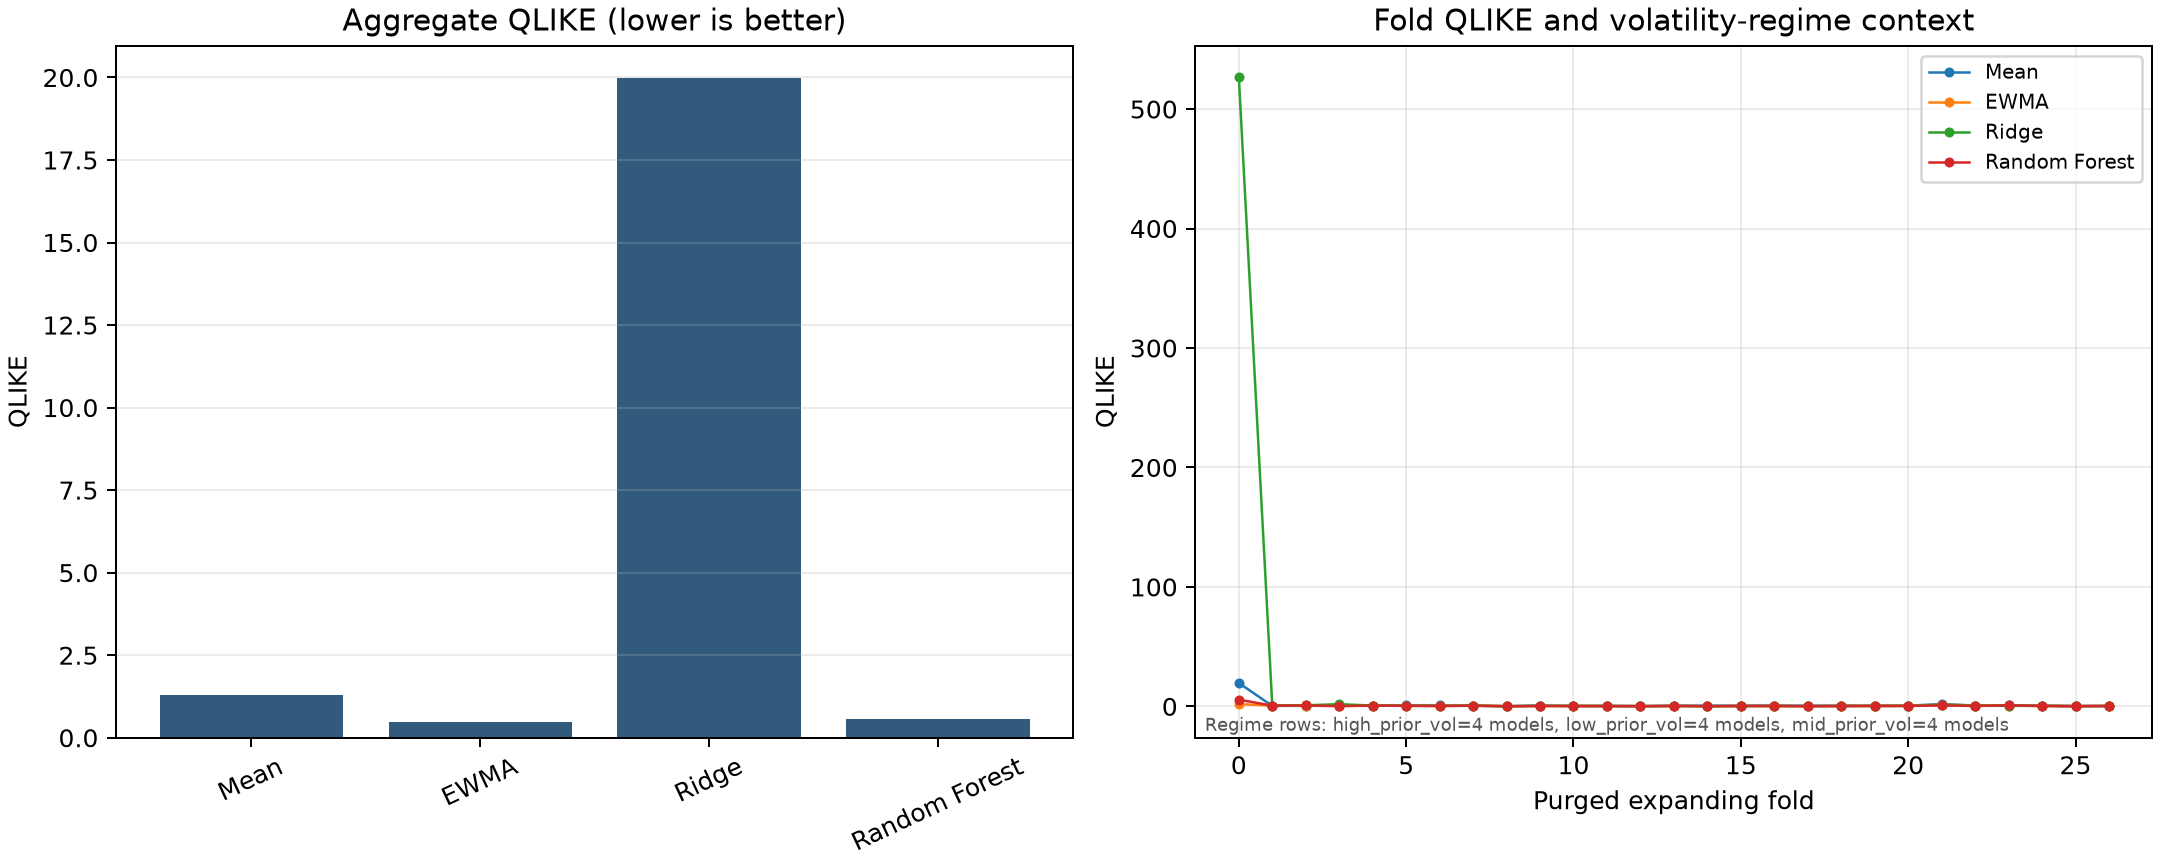
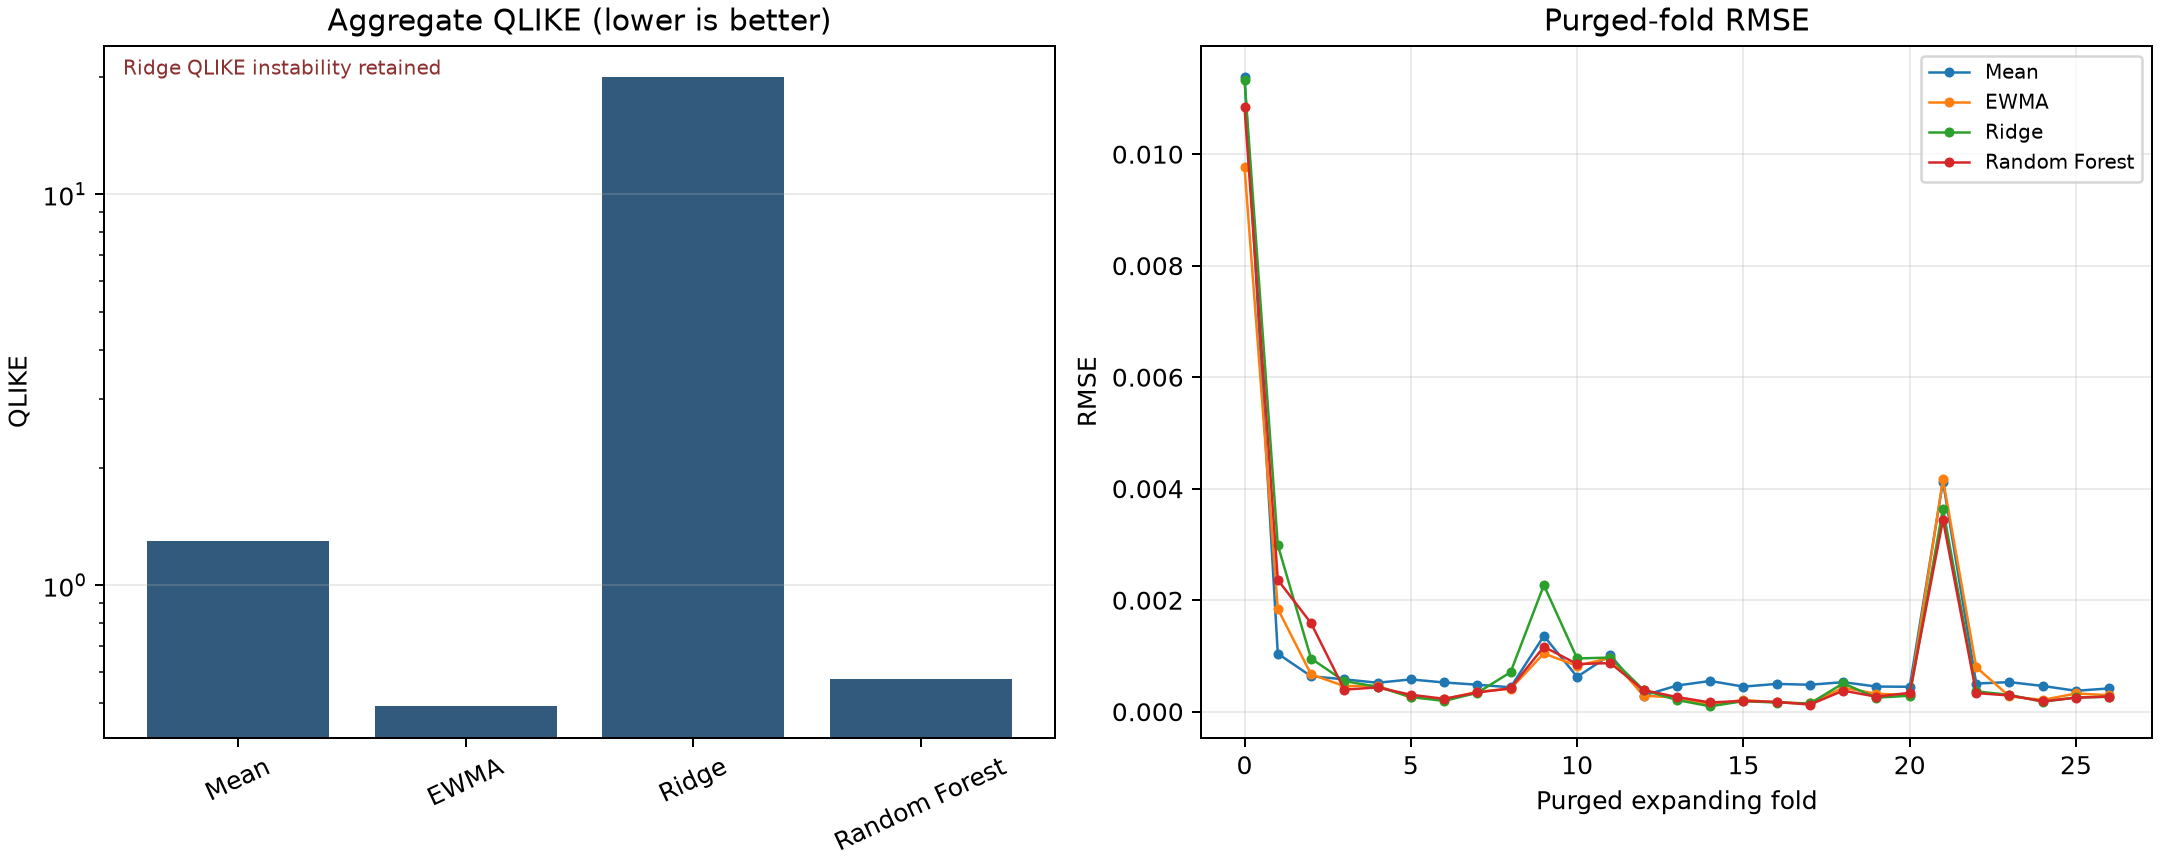
Clean public tree and release documentation

diff --git a/scripts/refresh_public_reference.py b/scripts/refresh_public_reference.py
@@ -64,7 +64,6 @@ def _reset_directory(path: Path) -> None:
 def _write_overview(output_dir: Path) -> None:
     aggregate = pd.read_csv(output_dir / "aggregate_metrics.csv")
     fold = pd.read_csv(output_dir / "fold_metrics.csv")
-    regime = pd.read_csv(output_dir / "regime_metrics.csv")
     labels = {
         "mean_baseline": "Mean",
         "ewma_baseline": "EWMA",
@@ -77,27 +76,27 @@ def _write_overview(output_dir: Path) -> None:
     axes[0].bar([labels[m] for m in left["model"]], left["qlike"], color="#315a7d")
     axes[0].set_title("Aggregate QLIKE (lower is better)")
     axes[0].set_ylabel("QLIKE")
+    axes[0].set_yscale("log")
     axes[0].tick_params(axis="x", rotation=25)
     axes[0].grid(axis="y", alpha=0.25)
+    axes[0].text(
+        0.02,
+        0.98,
+        "Ridge QLIKE instability retained",
+        transform=axes[0].transAxes,
+        va="top",
+        fontsize=8,
+        color="#8b2f2f",
+    )
 
     for model in order:
         series = fold[fold["model"] == model].sort_values("fold")
-        axes[1].plot(series["fold"], series["qlike"], marker=".", linewidth=1, label=labels[model])
-    axes[1].set_title("Fold QLIKE and volatility-regime context")
+        axes[1].plot(series["fold"], series["rmse"], marker=".", linewidth=1, label=labels[model])
+    axes[1].set_title("Purged-fold RMSE")
     axes[1].set_xlabel("Purged expanding fold")
-    axes[1].set_ylabel("QLIKE")
+    axes[1].set_ylabel("RMSE")
     axes[1].grid(alpha=0.25)
     axes[1].legend(fontsize=8)
-    # Add a compact regime note without hiding any folds or models.
-    regime_counts = regime.groupby("regime")["model"].nunique().to_dict()
-    axes[1].text(
-        0.01,
-        0.01,
-        "Regime rows: " + ", ".join(f"{k}={v} models" for k, v in sorted(regime_counts.items())),
-        transform=axes[1].transAxes,
-        fontsize=7,
-        color="#555555",
-    )
     assets_dir = output_dir.parent.parent / "docs" / "assets"
     assets_dir.mkdir(parents=True, exist_ok=True)
     fig.savefig(assets_dir / "overview.png", dpi=180)

diff --git a/src/spy_validation/reporting.py b/src/spy_validation/reporting.py
@@ -255,7 +255,7 @@ def write_outputs(
     intended_use = (
         "Public synthetic functionality and reproducibility demonstration."
         if run_type == "synthetic_demo"
-        else "Research-method demonstration, RA interview discussion, and reproducibility evidence."
+        else "Research-method demonstration and reproducibility evidence."
     )
     model_card = f"""# Model card
 
@@ -332,7 +332,7 @@ See `failure_analysis.md` and `docs/CALIBRATION_AUDIT.md`.
         bootstrap.to_markdown(index=False),
         "",
         "The public reference bundle contains derived summaries only; raw vendor bytes, point-level predictions and exposure paths remain private evidence.",
-        "The final `run_manifest.json` hashes every artifact written above.",
+        "The private canonical run manifest hashes the complete evidence bundle. Public reference artifacts are independently hashed in [PUBLIC_REFERENCE_MANIFEST.json](PUBLIC_REFERENCE_MANIFEST.json).",
         "",
     ]
     (output_dir / "REPORT.md").write_text("\n".join(report), encoding="utf-8")

diff --git a/docs/METHODOLOGY.md b/docs/METHODOLOGY.md
@@ -19,7 +19,7 @@ The default configuration produces 27 non-overlapping 60-row test folds after an
 ## Models
 
 - Historical mean baseline
-- RiskMetrics-style EWMA baseline with a fixed lambda=0.94. Its daily conditional-variance estimate is multiplied by the five-day horizon under a constant-variance approximation; lambda is not selected on the test set.
+- RiskMetrics-style EWMA baseline with a fixed lambda=0.94 (see the [RiskMetrics Technical Document](https://www.msci.com/research-and-insights/paper/1996-riskmetrics-technical-document)). Its daily conditional-variance estimate is multiplied by the five-day horizon under a constant-variance approximation; lambda is not selected on the test set.
 - Ridge regression on a log target
 - Random forest on a log target
 
@@ -27,7 +27,7 @@ Machine-learning predictions use a terminal inner temporal calibration block ins
 
 ## Evaluation
 
-The evidence bundle includes point-level out-of-fold predictions, MAE, RMSE, scale-invariant QLIKE, calibration ratio, rank correlation, calibration bins, prior-volatility regime slices, bootstrap fold comparisons, Ridge coefficient stability, random-forest feature importance, random-forest seed stability and a prediction-to-decision turnover cost diagnostic. The final manifest hashes every written artifact after REPORT, environment and diagnostics are complete.
+The evidence bundle includes point-level out-of-fold predictions, MAE, RMSE, scale-invariant QLIKE, calibration ratio, rank correlation, calibration bins, prior-volatility regime slices, bootstrap fold comparisons, Ridge coefficient stability, random-forest feature importance, random-forest seed stability and a prediction-to-decision turnover cost diagnostic. QLIKE is included as a volatility-forecast loss with source context from [Patton (2011)](https://doi.org/10.1016/j.jeconom.2010.03.034). The private canonical manifest hashes every written artifact after REPORT, environment and diagnostics are complete; the public derived bundle is listed in [`PUBLIC_REFERENCE_MANIFEST.json`](../results/reference_run/PUBLIC_REFERENCE_MANIFEST.json).
 
 ## Transaction-cost sensitivity
 

diff --git a/docs/REFERENCE_RUN_PROVENANCE.md b/docs/REFERENCE_RUN_PROVENANCE.md
@@ -1,27 +1,25 @@
 # Reference-run provenance
 
-V4.6 keeps the supplied handoff reference, the V4.4 local rerun, the V4.5
-canonical run, and the final V4.6
-canonical reference run separate. The public reference bundle is generated
-from the canonical run only; it is never assembled by mixing nearby metrics
-from different environments.
+Supplied handoff and local reruns are kept separate from the canonical
+reference run. The public reference bundle is generated from one canonical run
+only; it is never assembled by mixing nearby metrics from different
+environments.
 
-The handoff and V4.4 local results differ by small floating-point amounts and
+The handoff and earlier local results differ by small floating-point amounts and
 were produced under different Python/scientific-library versions. That is not
 treated as a scientific contradiction, but it is not an exact reproducibility
-receipt. The V4.5 canonical run records Python, platform, package versions,
-code commit, artifact/repository commit, configuration hash, source-data hash,
-and every public artifact hash in one manifest. In `environment.json`,
+receipt. The canonical run records Python, platform, package versions, code
+commit, artifact/repository commit, configuration hash, source-data hash, and
+every public artifact hash in one manifest. In `environment.json`,
 `code_commit` identifies the source state that produced predictions and metrics;
 `artifact_repository_commit` identifies the repository commit that first
 introduced the derived reference bundle. The raw vendor snapshot and
 point-level predictions stay private. See `docs/DATA_AND_REPRODUCIBILITY.md`
 for the public/private tiers.
 
-## V4.6 canonical receipt
+## Canonical receipt
 
-- Canonical run: `13_SPY_PRIVATE_RERUN/run_canonical_v4_6_20260825_192325`
-  (`20260825T112527Z`).
+- Canonical run ID: `20260825T112527Z`.
 - `code_commit`: `69dbbab8d6ea5d461c799416c0017e8960ca0afc`.
 - `artifact_repository_commit`: `9b732b1c448d436e59808b816dfec2b2567996e0`.
   A subsequent metadata-only commit records the final provenance fields.

diff --git a/docs/REFERENCES.md b/docs/REFERENCES.md
@@ -1,0 +1,26 @@
+# References
+
+This short list provides method context for the implemented validation protocol
+and the explicitly labelled future work. It is not a related-work survey.
+
+1. J.P. Morgan/Reuters, *RiskMetrics Technical Document* (4th ed., 1996),
+   [MSCI research record](https://www.msci.com/research-and-insights/paper/1996-riskmetrics-technical-document).
+   The repository uses a fixed RiskMetrics-style daily EWMA decay factor
+   `lambda=0.94`; it does not estimate the decay factor on the test data.
+2. Andrew J. Patton (2011), “Volatility forecast comparison using imperfect
+   volatility proxies,” *Journal of Econometrics*, 160(1), 246–256,
+   [doi:10.1016/j.jeconom.2010.03.034](https://doi.org/10.1016/j.jeconom.2010.03.034).
+   This is the source context for using QLIKE alongside RMSE when a realised
+   volatility proxy is imperfect.
+3. Fulvio Corsi (2009), “A Simple Approximate Long-Memory Model of Realized
+   Volatility,” *Journal of Financial Econometrics*, 7(2), 174–196,
+   [doi:10.1093/jjfinec/nbp001](https://doi.org/10.1093/jjfinec/nbp001).
+   HAR-RV is recorded as future work only; no HAR-RV model is implemented in
+   v0.1.0.
+4. Francis X. Diebold and Roberto S. Mariano (1995), “Comparing Predictive
+   Accuracy,” *Journal of Business & Economic Statistics*, 13(3), 253–263,
+   [doi:10.1080/07350015.1995.10524599](https://doi.org/10.1080/07350015.1995.10524599).
+   The current release reports descriptive fold-bootstrap intervals; a
+   dependence-aware forecast-comparison test is future work, not a claim made
+   by this release.
+

diff --git a/FUTURE_WORK.md b/FUTURE_WORK.md
@@ -2,8 +2,8 @@
 
 This v0.1.0 release keeps the model set intentionally small and the evidence boundary explicit.
 
-- **P1: HAR-RV baseline.** Add a finance-domain heterogeneous autoregressive realised-variance baseline with the same purged walk-forward contract.
+- **P1: HAR-RV baseline.** Add a finance-domain heterogeneous autoregressive realised-variance baseline with the same purged walk-forward contract; see [Corsi (2009)](https://doi.org/10.1093/jjfinec/nbp001) for the classic HAR-RV formulation.
 - **P2: cross-asset robustness.** Repeat the locked protocol on QQQ, IWM and TLT without changing the evaluation rules after seeing results.
 - **P3: optional GARCH(1,1).** Consider only after dependency stability, convergence diagnostics and forecasting semantics are fully tested.
 
-These are next experiments, not claims about the current SPY reference run and not blockers for the public v0.1.0 repository.
+These are next experiments, not claims about the current SPY reference run and not blockers for the public v0.1.0 repository. Forecast-comparison inference may later use a HAC-aware or Diebold-Mariano-style procedure appropriate for serially dependent five-day targets; the current release reports descriptive fold-bootstrap intervals only (see [Diebold and Mariano (1995)](https://doi.org/10.1080/07350015.1995.10524599)).

diff --git a/README.md b/README.md
@@ -79,10 +79,10 @@ The CSV alternative requires `date` and `adjusted_close` columns. Raw-close-only
 - [`docs/CALIBRATION_AUDIT.md`](docs/CALIBRATION_AUDIT.md)
 - [`docs/DATA_AND_REPRODUCIBILITY.md`](docs/DATA_AND_REPRODUCIBILITY.md)
 - [`docs/LIMITATIONS.md`](docs/LIMITATIONS.md)
-- [`docs/RESUME_EVIDENCE.md`](docs/RESUME_EVIDENCE.md)
 - [`FUTURE_WORK.md`](FUTURE_WORK.md)
 - [`CHANGELOG.md`](CHANGELOG.md)
-- [`docs/GITHUB_PUBLISH_CHECKLIST.md`](docs/GITHUB_PUBLISH_CHECKLIST.md)
 - [`results/reference_run/REPORT.md`](results/reference_run/REPORT.md)
+- [`results/reference_run/PUBLIC_REFERENCE_MANIFEST.json`](results/reference_run/PUBLIC_REFERENCE_MANIFEST.json)
+- [`docs/REFERENCES.md`](docs/REFERENCES.md)
 
 ![Canonical validation overview](docs/assets/overview.png)

diff --git a/CHANGELOG.md b/CHANGELOG.md
@@ -7,5 +7,6 @@
 - Added train-only temporal calibration, artifact-hash verification, negative-result reporting and a deterministic public synthetic CLI demo.
 - Added Python 3.10-3.12 CI with coverage, compile and Ruff checks.
 - Kept vendor raw bytes, point-level predictions, exposure paths and canonical private evidence outside the public-safe derived bundle.
+- Clarified public documentation boundaries and refreshed the overview figure, provenance wording and method references.
 
 The release date is intentionally omitted until a GitHub `v0.1.0` release is explicitly approved and created.

diff --git a/results/reference_run/REPORT.md b/results/reference_run/REPORT.md
@@ -28,4 +28,4 @@
 | qlike    | ridge         | mean_baseline |      18.6723      |  -0.224325    |  56.3872      |             0.740741 |
 
 The public reference bundle contains derived summaries only; raw vendor bytes, point-level predictions and exposure paths remain private evidence.
-The final `run_manifest.json` hashes every artifact written above.
+The private canonical run manifest hashes the complete evidence bundle. Public reference artifacts are independently hashed in [PUBLIC_REFERENCE_MANIFEST.json](PUBLIC_REFERENCE_MANIFEST.json).

diff --git a/results/reference_run/model_card.md b/results/reference_run/model_card.md
@@ -16,7 +16,7 @@ Can simple historical, EWMA and machine-learning models produce stable forecasts
 - Fixed hyperparameters; no random split and no test-set tuning
 
 ## Intended use
-Research-method demonstration, RA interview discussion, and reproducibility evidence.
+Research-method demonstration and reproducibility evidence.
 
 ## Not intended for
 Live trading, investment recommendations, alpha claims, P&L claims, portfolio construction or production risk management.
